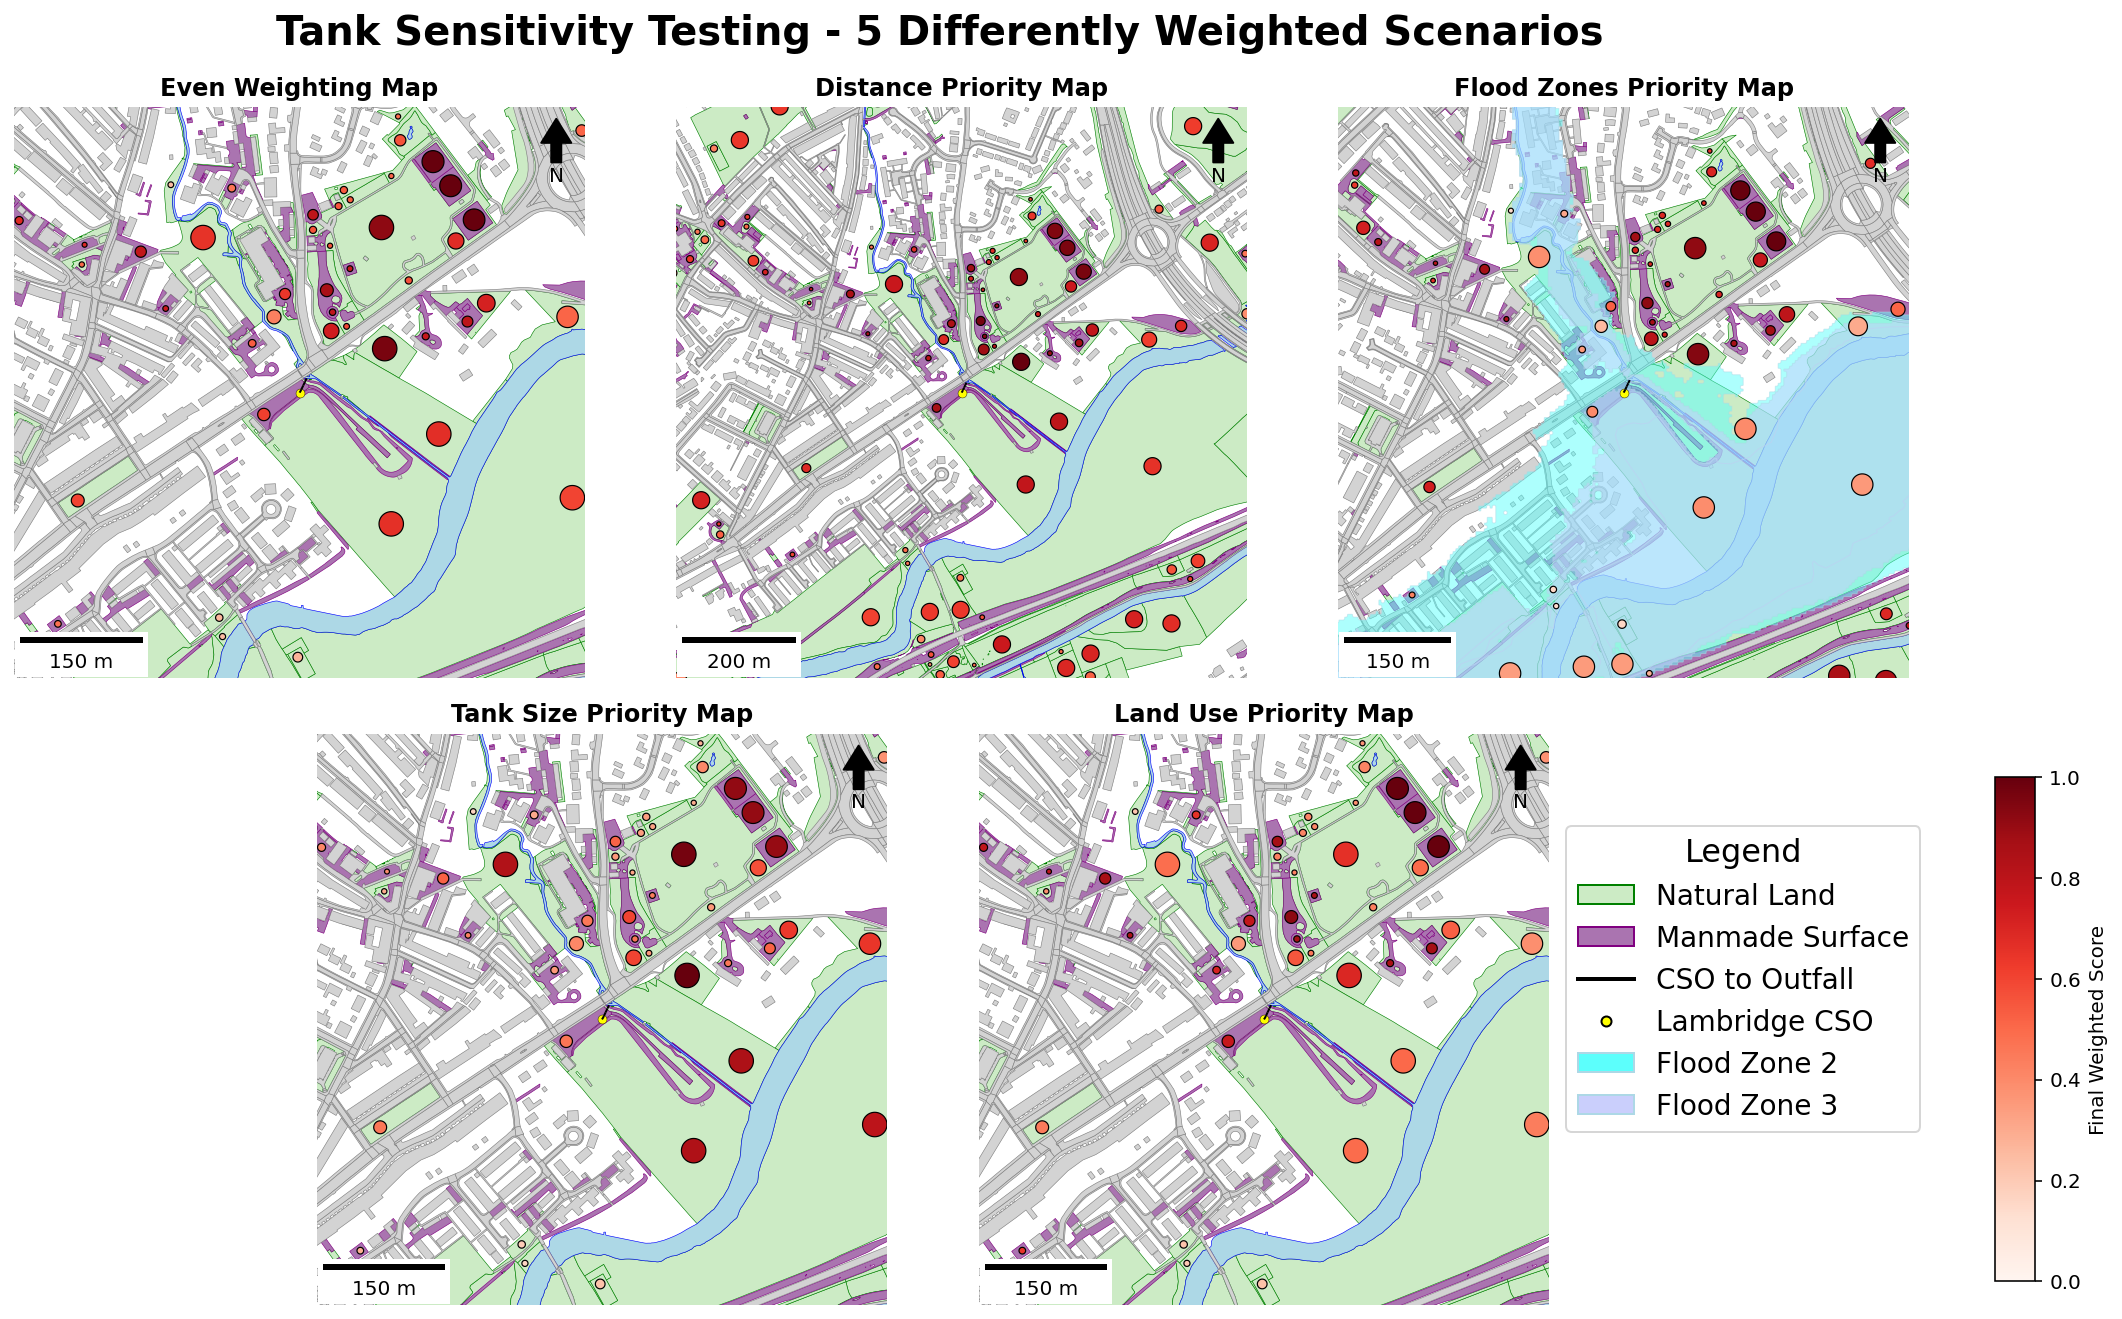
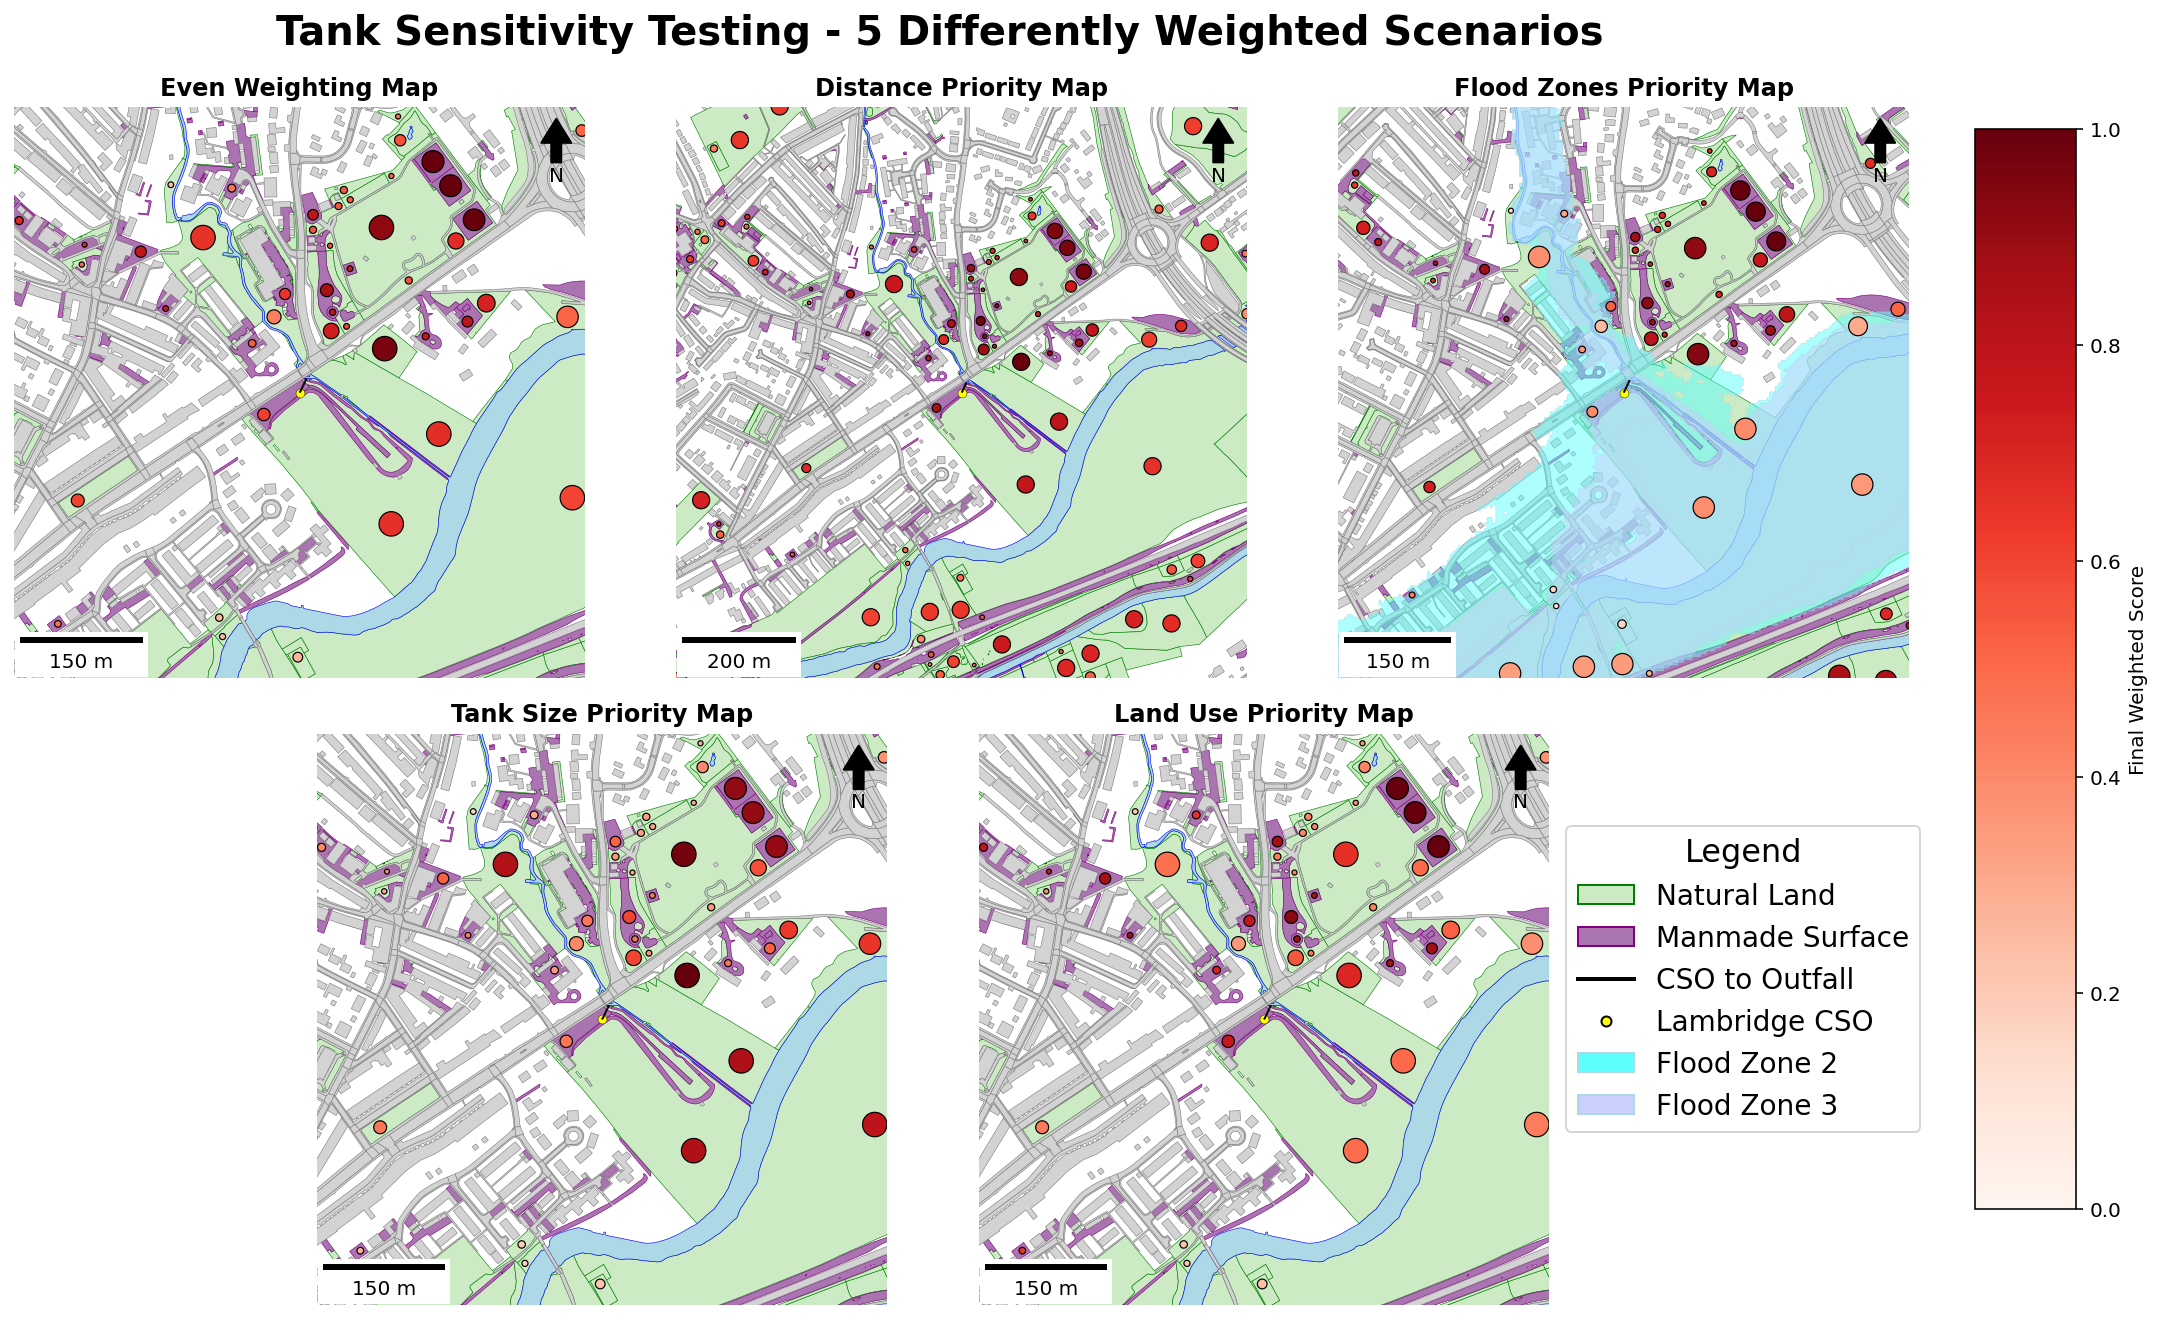
changed axis serveral times but should be okay now

diff --git a/dissertation-code.py b/dissertation-code.py
@@ -670,7 +670,7 @@ fig.legend(handles=[
 
 #add a colour bar - combined outside loop for all
 #manual axes - outside the maps (left, bottom, width, height)
-cbar_ax = fig.add_axes([1.02, 0.1, 0.02, 0.35])
+cbar_ax = fig.add_axes([1.01, 0.15, 0.05, 0.75])
 
 #adding colour bar 
 fig.colorbar(
@@ -683,7 +683,6 @@ fig.colorbar(
     orientation = "vertical", #change so that it fits the bottom
     pad=0.1, 
     label = 'Final Weighted Score' ) #distance from the maps
-
 
 # save the result
 savefig('out/All_Scenarios.png', bbox_inches='tight')
